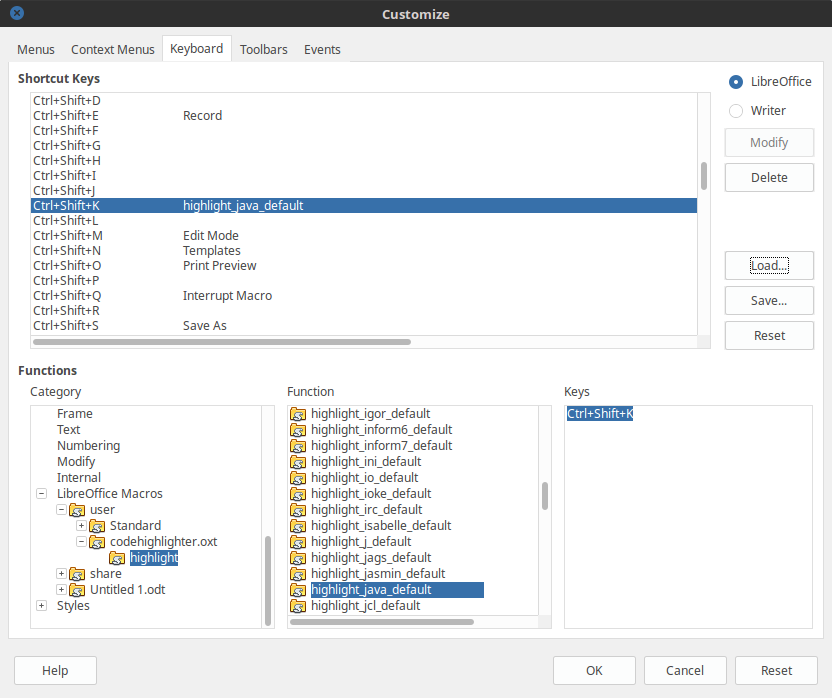
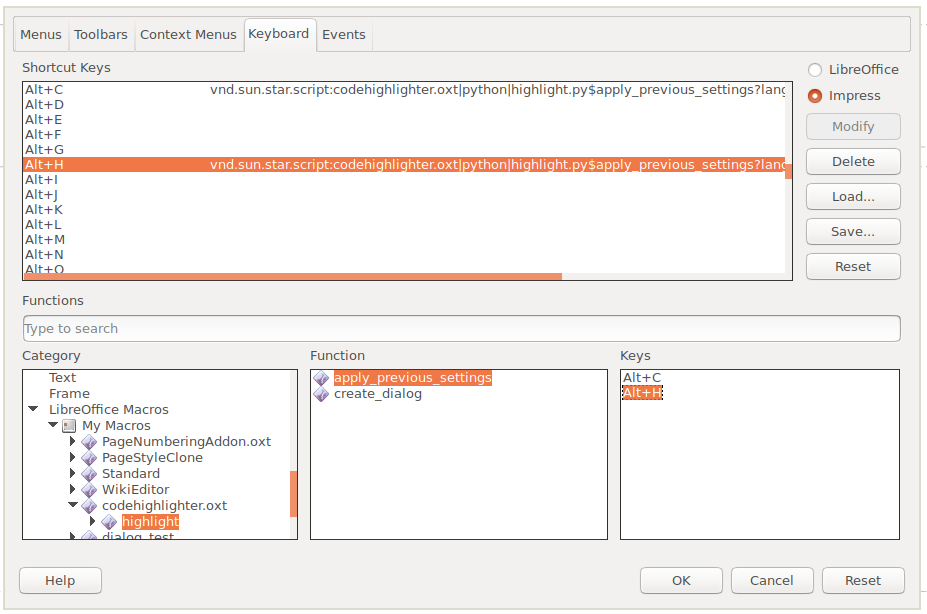
updated README

diff --git a/README.md b/README.md
@@ -35,26 +35,28 @@ Open LibreOffice, go to `Tools` -> `Extension Manager...` and add the extension 
 You can download the extension either from the official LibreOffice extensions page or from [releases](https://github.com/slgobinath/libreoffice-code-highlighter/files/971882/codehighlighter.oxt.zip).
 If you have downloaded the `codehighlighter.oxt.zip` file from GitHub releases, extract it before adding to the LibreOffice.
 
-### Assign keyboard shortcut to selected languages (Optional)
-Open the LibreOffice Writer and goto Tools -> Customize -> Keyboard
-- Select the LibreOffice option button (Available on top left corner)
-- Select any desired shortcut
-- Select `user/codehighlighter.oxt/highlight/highlight_<language-name>_default` under the `LibreOffice Macros` Category
-- Click on the Modify button to set the shortcut
-<p align="center">
-<img src="https://raw.githubusercontent.com/slgobinath/libreoffice-code-highlighter/master/screenshots/code-highlighter-shortcut.png" align="center" width="600">
-</p>
-
 ## USAGE
 - Open LibreOffice.
 - Insert a Text Box (Insert -> Text Box).
 - Copy and paste any code snippet into that Text Box.
 - Select the Text Box.
-- Tools -> Highlight Code -> Select the language (Or use the shortcut key)
+- Tools -> Highlight Code
+  - In the Dialog: Select the language and style
+- Alternatively: Tools -> Highlight Code (previous settings)
+  - Does not open a Dialog, but applies previous settings (persistent also between restarts of LO)
 
-<p align="center">
-<img src="https://raw.githubusercontent.com/slgobinath/libreoffice-code-highlighter/master/screenshots/code-highlighter-menu.png" align="center" width="600">
-</p>
+![Menu](screenshots/code-highlighter-menu.png?raw=true "Menu")
+![Dialog](screenshots/code-highlighter-dialog.png?raw=true "Dialog")
+![Result](screenshots/code-highlighter-result.png?raw=true "Result")
+
+### Assign keyboard shortcuts (Optional)
+Open the LibreOffice Writer and goto Tools -> Customize -> Keyboard
+- Select the LibreOffice option button (Available on top left corner)
+- Select any desired shortcut
+- Select `user/codehighlighter.oxt/highlight/create_dialog` or `user/codehighlighter.oxt/highlight/apply_previous_settings` under the `LibreOffice Macros` Category
+- Click on the Modify button to set the shortcut
+
+![Shortcut](screenshots/code-highlighter-shortcut.png?raw=true "Shortcut")
 
 ## LICENSE
  - GPL v3
